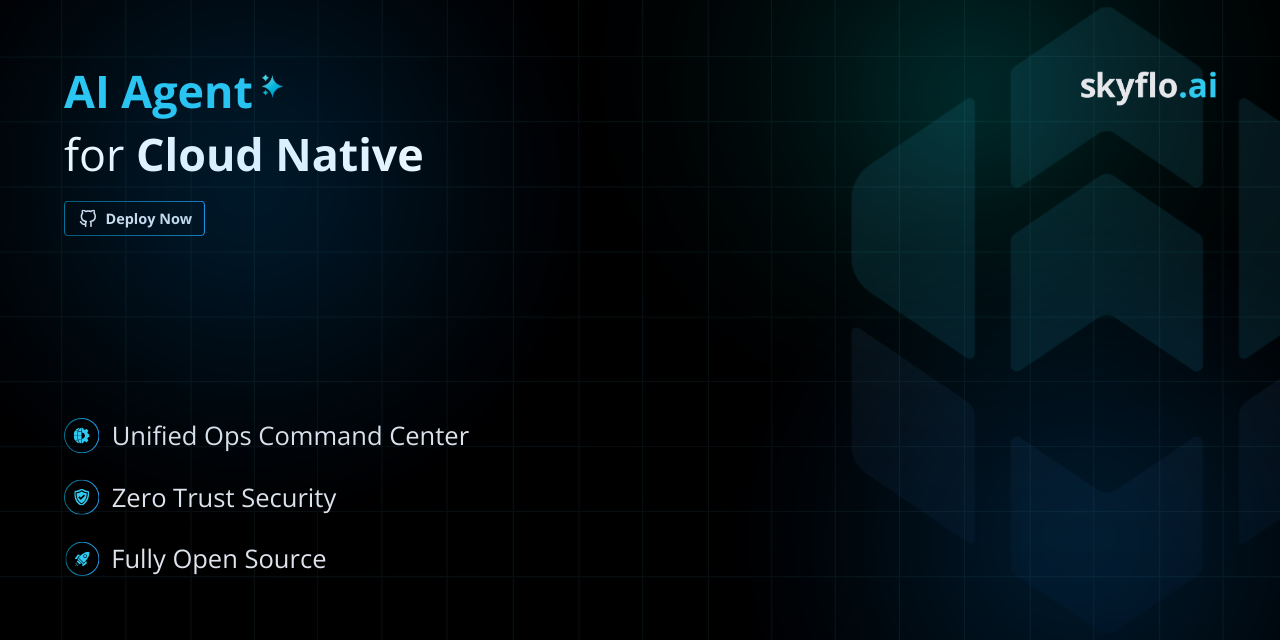
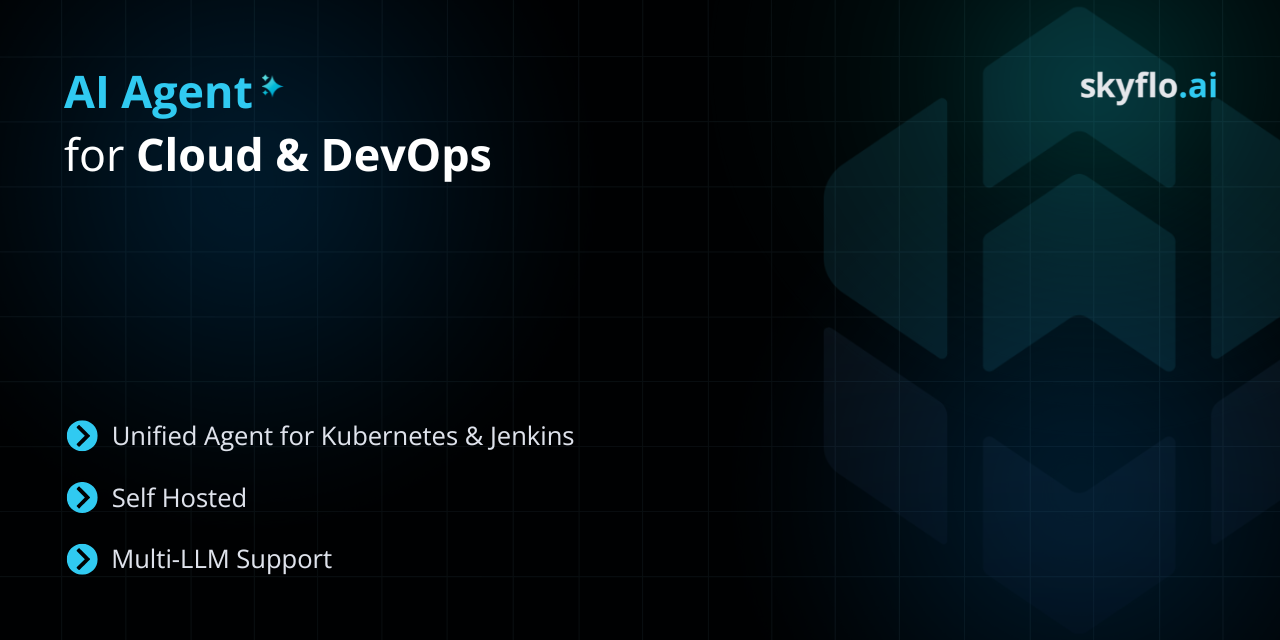
Update README.md

diff --git a/README.md b/README.md
@@ -1,23 +1,14 @@
-# Skyflo.ai - AI Agent for Cloud Native
+# Skyflo.ai - AI Agent for Cloud & DevOps
 
 <p align="center">
   <img src="./assets/readme.png" alt="Skyflo.ai" width="1000"/>
 </p>
 
-<div align="center">
-
-  [![Website](https://img.shields.io/badge/Website-Visit-blue.svg)](https://skyflo.ai)
-  [![Discord](https://img.shields.io/badge/Discord-Join-blue.svg)](https://discord.gg/kCFNavMund)
-  [![Twitter/X Follow](https://img.shields.io/twitter/follow/skyflo_ai?style=social)](https://x.com/skyflo_ai)
-  [![YouTube Channel](https://img.shields.io/badge/YouTube-Subscribe-red.svg)](https://www.youtube.com/@SkyfloAI)
-
-</div>
-
 Skyflo.ai is your AI co-pilot for Cloud & DevOps that unifies Kubernetes operations and CI/CD systems (starting with Jenkins) through natural language with a safety-first, human-in-the-loop design.
 
-## How to Install
+## ⚡ Quick Start
 
-Skyflo.ai offers flexible deployment options, accommodating both production and local Kubernetes environments:
+Install Skyflo.ai in your Kubernetes cluster using a single command:
 
 ```bash
 curl -sL https://raw.githubusercontent.com/skyflo-ai/skyflo/main/deployment/install.sh -o install.sh && chmod +x install.sh && ./install.sh
@@ -25,9 +16,18 @@ curl -sL https://raw.githubusercontent.com/skyflo-ai/skyflo/main/deployment/inst
 
 Skyflo can be configured to use different LLM providers (like OpenAI, Anthropic, Gemini, Groq, etc.), or even use a self-hosted model.
 
-For more details, see the [Installation Guide](docs/install.md).
+See the [Installation Guide](https://github.com/skyflo-ai/skyflo/blob/main/docs/install.md) for details.
 
-## Supported Tools
+## 🚀 Key Features
+
+- **Unified AI Copilot**: One agent for K8s, Jenkins, Helm, and Argo Rollouts
+- **Human-in-the-loop Design**: Approval required for any mutating operation
+- **Plan → Execute → Verify**: Iterative loop where the agent keeps going untill the task is done 
+- **Real-time Streaming**: Everything that the agent does is streamed to the UI in real time
+- **MCP-based tool execution**: Standardized tools for safe, consistent actions
+- **Built for Teams**: Manage teams, integrations, rate limiting and much more
+
+## 🛠 Supported Tools
 
 Skyflo.ai executes Cloud & DevOps operations through standardized tools and integrations:
 
@@ -38,21 +38,35 @@ Skyflo.ai executes Cloud & DevOps operations through standardized tools and inte
 
 Write/mutating operations require explicit approval from the user.
 
-## Architecture
+## 🎯 Who is Skyflo.ai for?
+
+Skyflo.ai is purpose-built for:
+
+- **DevOps Engineers**
+- **Cloud Architects**
+- **IT Managers**
+- **SRE Teams**
+- **Security Professionals**
+
+## 🏗 Architecture
 
 Read more about the architecture of Skyflo.ai in the [Architecture](docs/architecture.md) documentation.
 
-## Contributing
+## 🤝 Contributing
 
 We welcome contributions! See our [Contributing Guide](CONTRIBUTING.md) for details on getting started.
 
-## Code of Conduct
+## 📜 Code of Conduct
 
 We have a [Code of Conduct](CODE_OF_CONDUCT.md) that we ask all contributors to follow.
 
-## Community
+## 🌐 Community
 
 - [Discord](https://discord.gg/kCFNavMund)
 - [Twitter/X](https://x.com/skyflo_ai)
 - [YouTube](https://www.youtube.com/@SkyfloAI)
 - [GitHub Discussions](https://github.com/skyflo-ai/skyflo/discussions)
+
+## 📄 License
+
+Skyflo.ai is open source and licensed under the [Apache License 2.0](https://www.apache.org/licenses/LICENSE-2.0).
